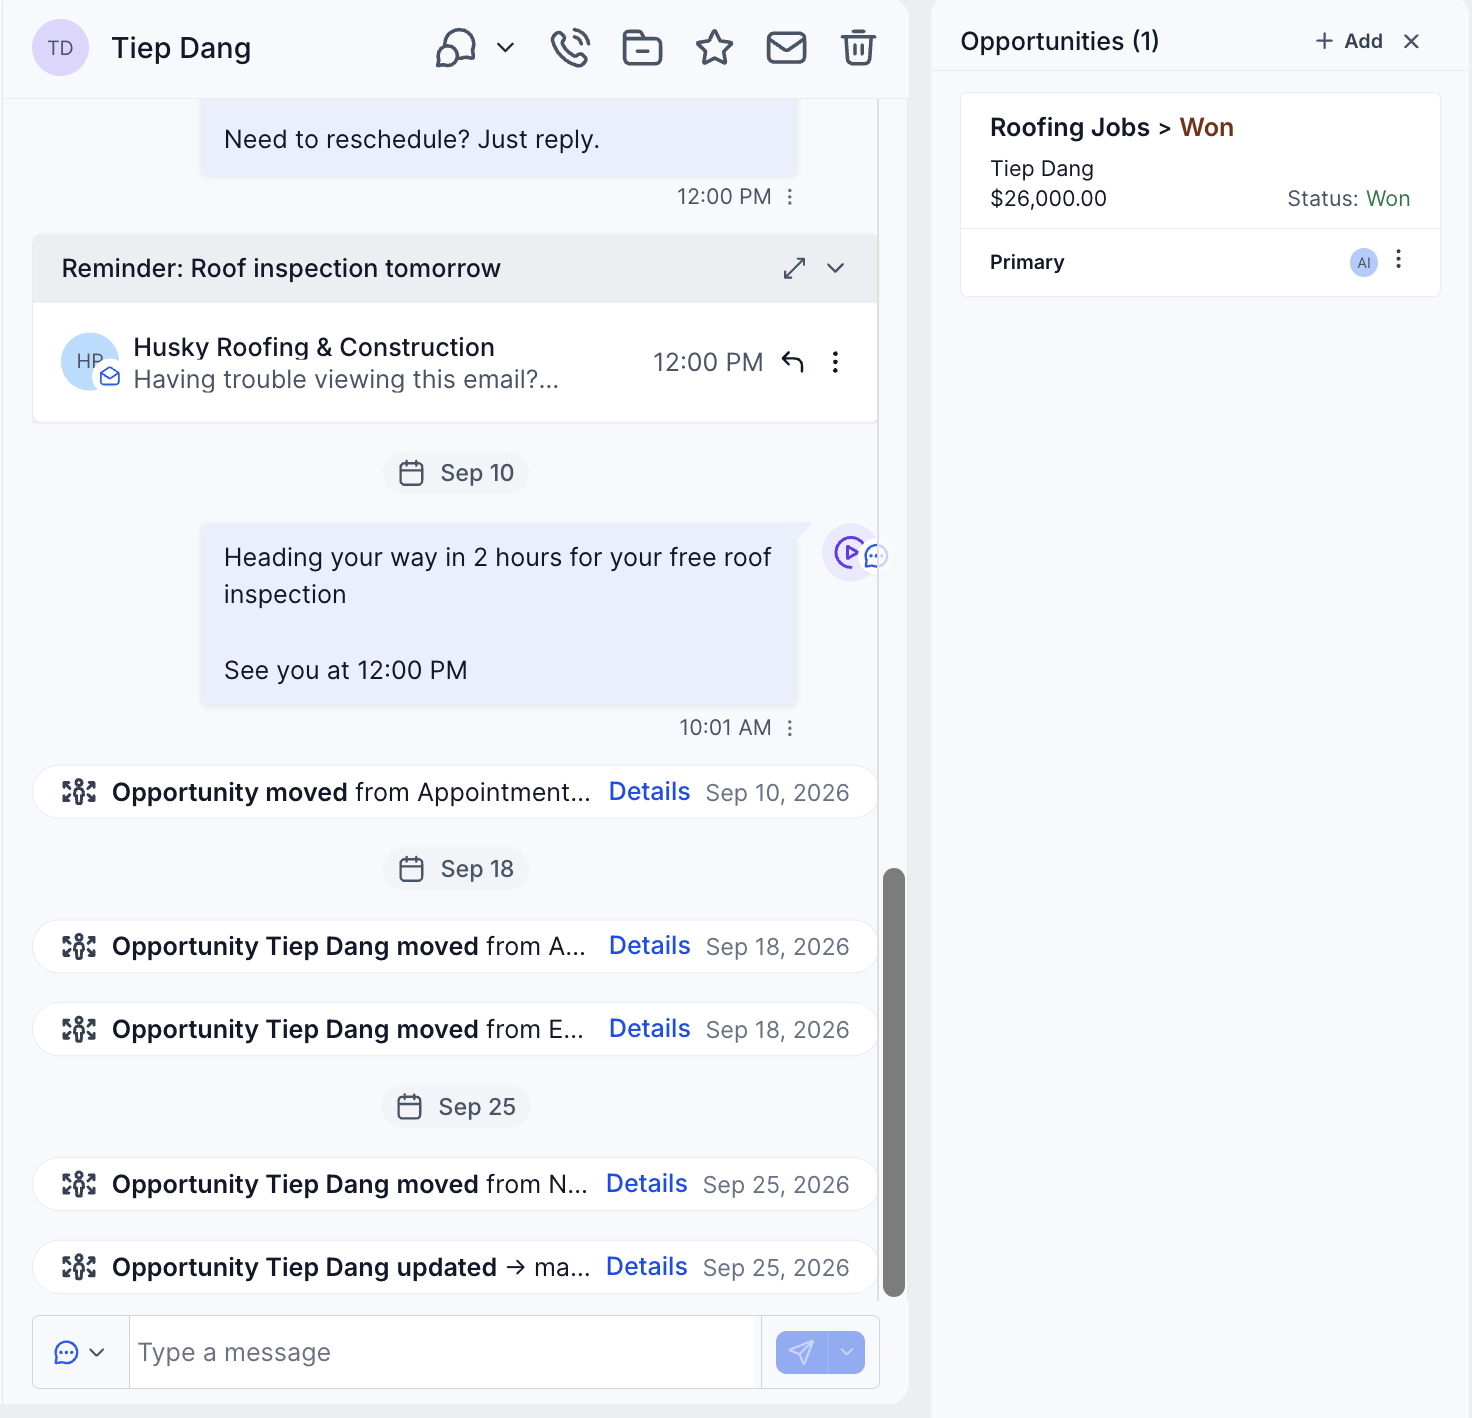
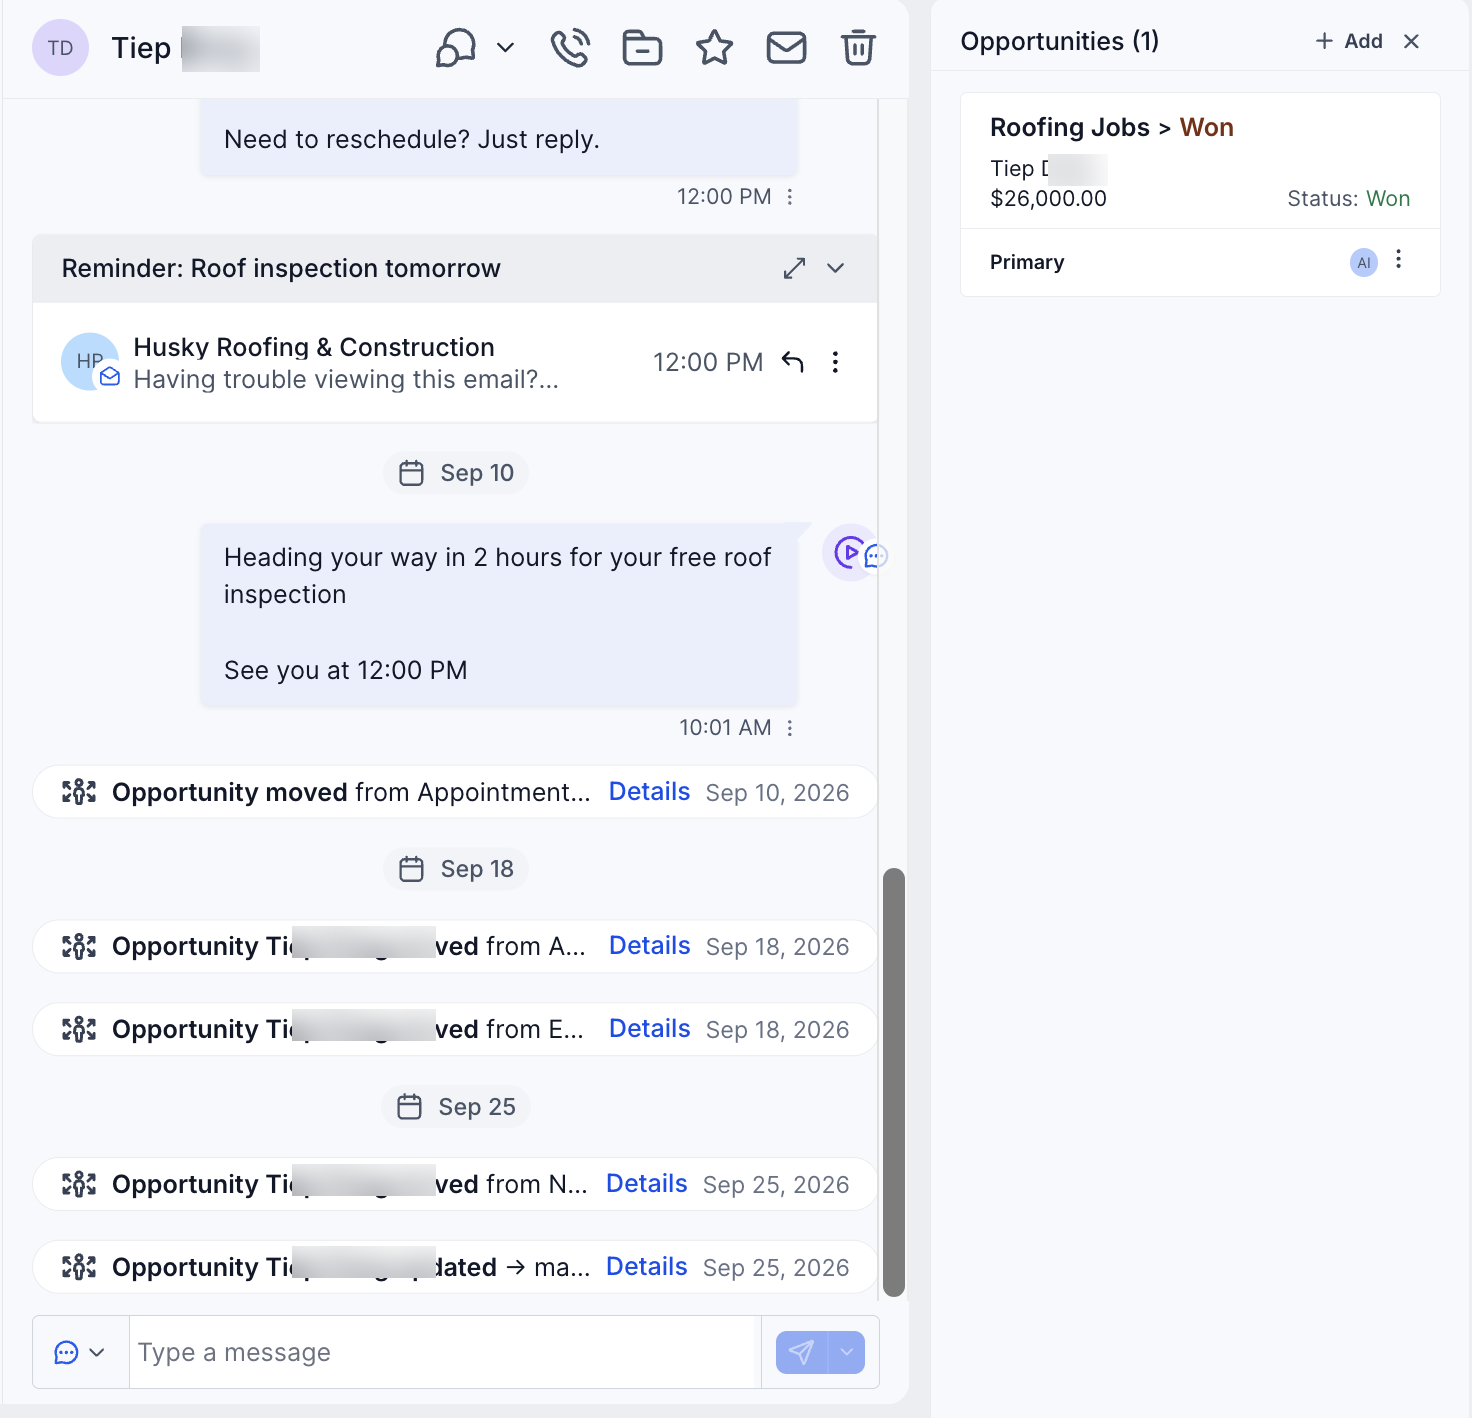
Blur PII in case-study screenshots; soften one slop word
- Redact customer last name "Dang" across all Tiep case-study screenshots
  (site brands him "Tiep D."); blur incidental third-party name in Anna thread
- "robust" -> "strong" in the JobNimbus post

diff --git a/blog/missed-call-text-back-jobber-jobnimbus.html b/blog/missed-call-text-back-jobber-jobnimbus.html
@@ -78,7 +78,7 @@
     <p>Housecall Pro includes customer texting and reminders, and its call-tracking / "missed call" features have grown. If you use their phone product, look in the communications or call settings for an auto-response to unanswered calls. If you keep your existing number elsewhere, you'll likely still want a texting layer in front of it.</p>
 
     <h2>ServiceTitan</h2>
-    <p>ServiceTitan is built for larger shops and has robust call handling and marketing tools, including automated texting. Missed-call follow-up is achievable, but it typically lives inside their phone/marketing modules and is configured as part of a broader setup rather than a single switch. If you're on ServiceTitan, your admin or success manager can point you to the exact workflow.</p>
+    <p>ServiceTitan is built for larger shops and has strong call handling and marketing tools, including automated texting. Missed-call follow-up is achievable, but it typically lives inside their phone/marketing modules and is configured as part of a broader setup rather than a single switch. If you're on ServiceTitan, your admin or success manager can point you to the exact workflow.</p>
 
     <h2>GoHighLevel (and CRM-first setups)</h2>
     <p>This is the category that does missed-call text-back most directly. In GoHighLevel, it's a standard workflow: trigger on <em>Call Status = Missed</em>, then send an SMS. You get separate hours-based messages, two-way replies in one inbox, and the opportunity created automatically. It's the approach we build on for clients because the text-back, booking, and follow-up all live in one place.</p>
